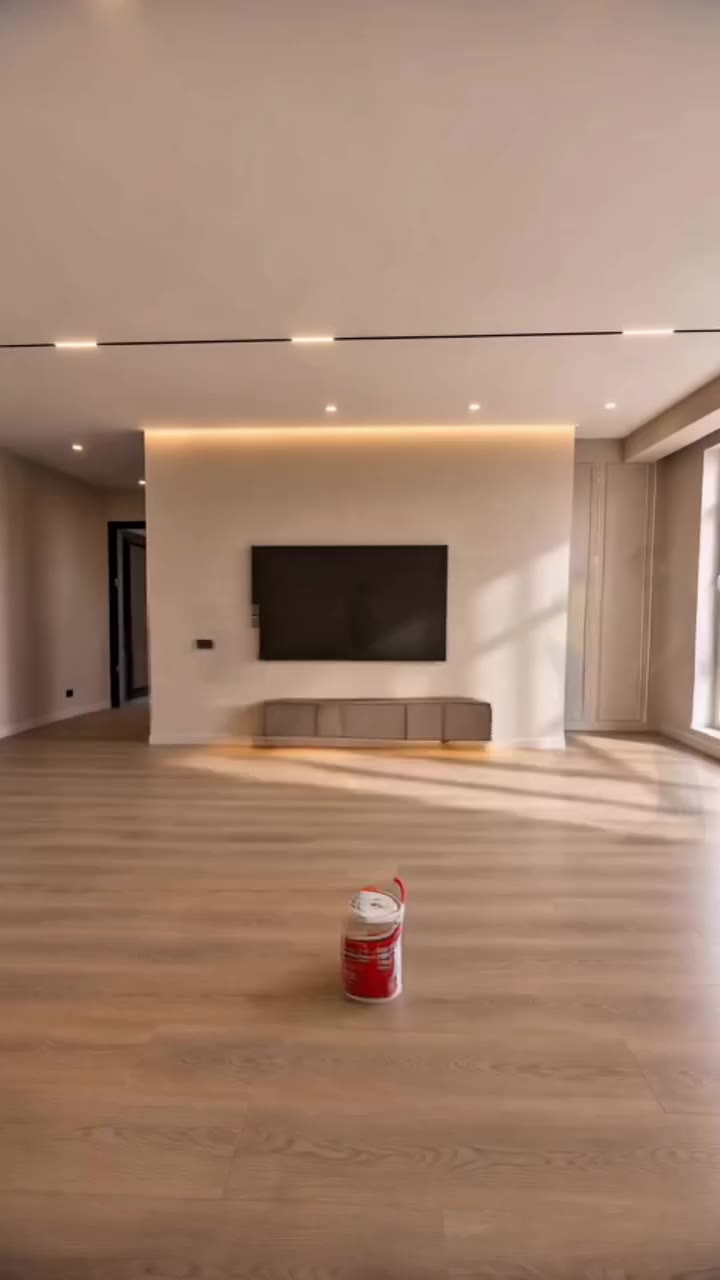
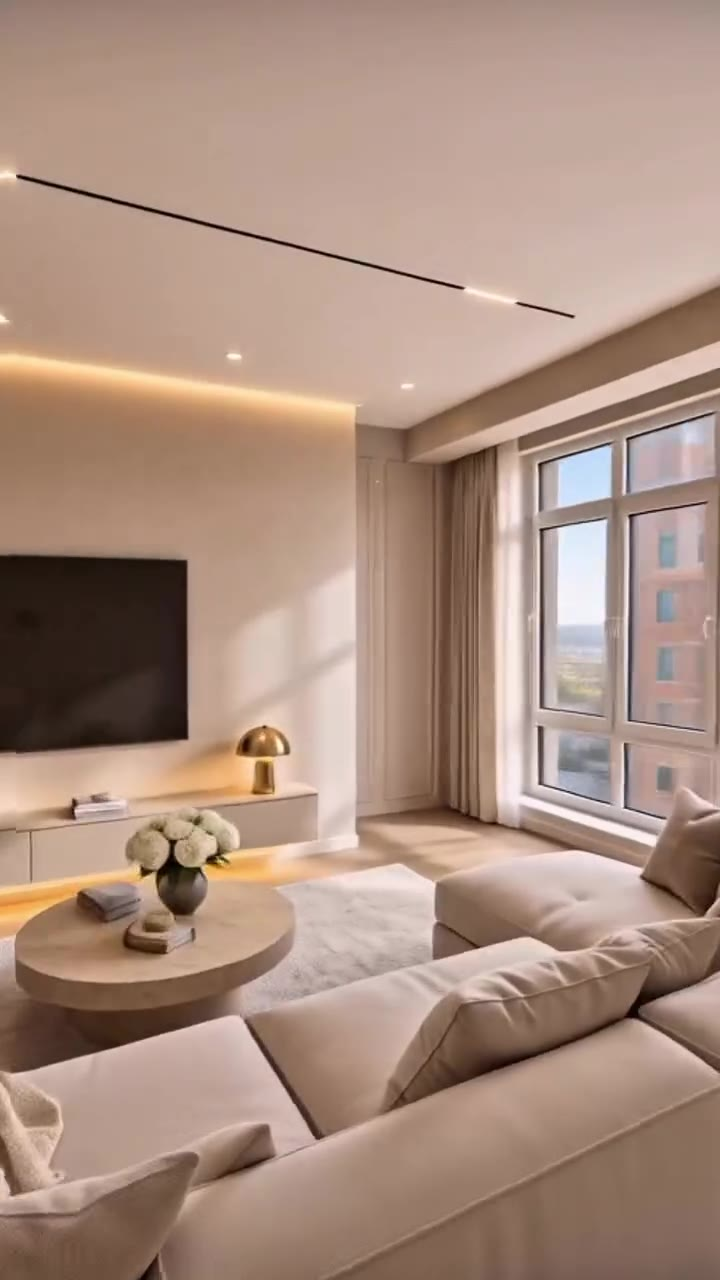
ЖК Легенда: навигация, чипы и кнопки на первом экране, галерея с просмотром, новая обложка видео, мобильная вёрстка hero
Claude-Session: https://claude.ai/code/session_019tdYqEuQ2KqC7JcWJotPjW

diff --git a/zhk/legenda.html b/zhk/legenda.html
@@ -20,8 +20,8 @@ a{color:inherit;text-decoration:none}
 .top b{font:400 26px/1 var(--display);letter-spacing:.04em;color:#fff}
 .top a.back{font-size:14px;color:#e5c77e}
 .hero{position:relative;color:#fff;background:var(--navy)}
-.hero img{display:block;width:100%;height:min(82vh,760px);object-fit:cover;object-position:50% 38%}
-.hero:after{content:"";position:absolute;inset:0;background:linear-gradient(0deg,rgba(7,27,49,.9) 0%,rgba(7,27,49,.05) 48%)}
+.hero img{display:block;width:100%;height:min(90vh,840px);object-fit:cover;object-position:50% 30%}
+.hero:after{content:"";position:absolute;inset:0;background:linear-gradient(0deg,rgba(7,27,49,.94) 0%,rgba(7,27,49,.66) 38%,rgba(7,27,49,0) 72%)}
 .hero .wrap{position:absolute;left:0;right:0;bottom:0;z-index:2;padding-bottom:36px;margin:0 auto}
 .hero p{margin:0 0 6px;color:#e5c77e;font-weight:600;font-size:15px}
 h1{margin:0;font:400 clamp(38px,7vw,72px)/1.05 var(--display)}
@@ -125,6 +125,31 @@ footer{padding:26px 0;font-size:13px;color:var(--mut)}
 .find .fbtn:disabled{opacity:.45;cursor:default}
 .find .reset{margin-left:auto;background:transparent;border:0;color:#e5c77e;text-decoration:underline;font:600 14px var(--text);cursor:pointer}
 .find .fhead{display:flex;gap:12px;align-items:flex-start}
+.anav{display:flex;gap:26px;margin-left:auto;margin-right:28px}
+.anav a{color:#dfe6ee;font-size:14px;font-weight:600}.anav a:hover{color:var(--gold)}
+html{scroll-behavior:smooth}section{scroll-margin-top:12px}
+.hchips{list-style:none;margin:18px 0 0;padding:0;display:flex;flex-wrap:wrap;gap:8px}
+.hchips li{padding:8px 14px;border-radius:999px;background:rgba(255,255,255,.14);border:1px solid rgba(255,255,255,.28);backdrop-filter:blur(6px);font-size:14px;font-weight:600}
+.hbtns{display:flex;flex-wrap:wrap;gap:12px;margin-top:20px}
+.hbtns .btn{background:rgba(255,255,255,.1)}.hbtns .btn.p{background:var(--gold)}
+.gal{display:grid;grid-template-columns:repeat(4,1fr);gap:12px}
+.gal button{position:relative;padding:0;border:0;border-radius:14px;overflow:hidden;aspect-ratio:3/4;background:#dde3ea;cursor:zoom-in}
+.gal img{width:100%;height:100%;object-fit:cover;display:block;transition:transform .5s}
+.gal button:hover img{transform:scale(1.04)}
+.gal span{position:absolute;left:0;right:0;bottom:0;padding:34px 14px 12px;color:#fff;font-weight:600;font-size:14px;text-align:left;background:linear-gradient(0deg,rgba(7,27,49,.78),transparent)}
+.lb{position:fixed;inset:0;z-index:50;background:rgba(5,14,26,.94);display:none;align-items:center;justify-content:center;padding:20px}
+.lb.on{display:flex}.lb img{max-width:100%;max-height:88vh;border-radius:10px}
+.lb button{position:absolute;border:0;background:rgba(255,255,255,.14);color:#fff;width:46px;height:46px;border-radius:50%;font-size:22px;cursor:pointer}
+.lb .x{top:16px;right:16px}.lb .pv{left:16px;top:50%}.lb .nx{right:16px;top:50%}
+@media(max-width:760px){.hero:after{display:none}
+ .hero img{height:300px!important;object-position:50% 30%!important}
+ .hero .wrap{position:static;padding-top:22px;padding-bottom:30px}
+ .hero{background:var(--navy)}
+ .hero h1{font-size:44px}
+ .anav{display:none}.top .back{margin-left:auto}
+ .gal{display:flex;overflow-x:auto;scroll-snap-type:x mandatory;gap:10px;margin:0 -16px;padding:0 16px 6px}
+ .gal button{flex:0 0 78%;scroll-snap-align:center;aspect-ratio:4/5}
+ .hchips li{font-size:13px;padding:7px 12px}}
 @media(max-width:760px){
 .fp{padding:14px}.legend .orig{margin-left:0}
 #fp{display:grid;grid-template-columns:minmax(0,1fr) 30px minmax(0,1fr);gap:6px;height:640px}
@@ -154,7 +179,7 @@ footer{padding:26px 0;font-size:13px;color:var(--mut)}
 </style>
 </head>
 <body>
-<header class="top"><div class="wrap"><a href="/"><b>CITY</b></a><a class="back" href="/">Все объекты</a></div></header>
+<header class="top"><div class="wrap"><a href="/"><b>CITY</b></a><nav class="anav"><a href="#gallery">О комплексе</a><a href="#apartment">Квартира</a><a href="#chess">Выбор квартиры</a><a href="#calc">Рассрочка</a></nav><a class="back" href="/">Все объекты</a></div></header>
 
 <div class="hero">
   <img src="/zhk/legenda/hero.jpg" alt="ЖК «Легенда», вид сверху">
@@ -162,24 +187,26 @@ footer{padding:26px 0;font-size:13px;color:var(--mut)}
     <p>Застройщик Shadid Group</p>
     <h1>ЖК «Легенда»</h1>
     <div class="sub">Монолитно-кирпичные дома с панорамными окнами, магазинами на первых этажах и благоустроенными дворами.</div>
+    <ul class="hchips"><li>5 блоков</li><li>Квартиры от 47,75 до 85,18 м²</li><li>Рассрочка до 36 месяцев</li></ul>
+    <div class="hbtns"><a class="btn p" href="#chess">Выбрать квартиру</a><a class="btn" href="#apartment">Смотреть видео</a></div>
   </div>
 </div>
 
-<section>
+<section id="gallery">
   <div class="wrap">
     <h2>Как выглядит комплекс</h2>
     <p class="lead">Фасад из тёмного и красного кирпича, остеклённые эркеры, пешеходные улицы и благоустроенные дворы.</p>
-    <div class="grid">
-      <figure><img src="/zhk/legenda/street.jpg" alt="Пешеходная улица и коммерческие помещения" loading="lazy"></figure>
-      <figure><img src="/zhk/legenda/entrance.jpg" alt="Входная группа торгового комплекса" loading="lazy"></figure>
-      <figure><img src="/zhk/legenda/yard.jpg" alt="Двор комплекса на закате" loading="lazy"></figure>
-      <figure><img src="/zhk/legenda/sunset.jpg" alt="Дома комплекса на закате" loading="lazy"></figure>
+    <div class="gal" id="gal">
+      <button type="button" data-i="0"><img src="/zhk/legenda/street.jpg" alt="Пешеходная улица и коммерческие помещения" loading="lazy"><span>Пешеходная улица</span></button>
+      <button type="button" data-i="1"><img src="/zhk/legenda/entrance.jpg" alt="Входная группа торгового комплекса" loading="lazy"><span>Входная группа</span></button>
+      <button type="button" data-i="2"><img src="/zhk/legenda/yard.jpg" alt="Двор комплекса на закате" loading="lazy"><span>Двор</span></button>
+      <button type="button" data-i="3"><img src="/zhk/legenda/sunset.jpg" alt="Дома комплекса на закате" loading="lazy"><span>Закат над комплексом</span></button>
     </div>
     <p class="note">Изображения — визуализации, внешний вид может отличаться от построенного.</p>
   </div>
 </section>
 
-<section style="background:var(--paper)">
+<section id="apartment" style="background:var(--paper)">
   <div class="wrap">
     <div class="demo">
       <div class="video">
@@ -250,6 +277,17 @@ footer{padding:26px 0;font-size:13px;color:var(--mut)}
 </section>
 
 <footer><div class="wrap">CITY — агентство недвижимости в Буйнакске. Демонстрационная страница.</div></footer>
+<div class="lb" id="lb" role="dialog" aria-label="Просмотр фото"><button class="x" aria-label="Закрыть">×</button><button class="pv" aria-label="Назад">‹</button><img alt=""><button class="nx" aria-label="Вперёд">›</button></div>
+<script>
+(function(){var b=[].slice.call(document.querySelectorAll("#gal button")),lb=document.getElementById("lb"),im=lb.querySelector("img"),i=0;
+function show(n){i=(n+b.length)%b.length;im.src=b[i].querySelector("img").src;im.alt=b[i].querySelector("img").alt;lb.classList.add("on")}
+b.forEach(function(x,n){x.onclick=function(){show(n)}});
+lb.querySelector(".x").onclick=function(){lb.classList.remove("on")};
+lb.querySelector(".pv").onclick=function(e){e.stopPropagation();show(i-1)};
+lb.querySelector(".nx").onclick=function(e){e.stopPropagation();show(i+1)};
+lb.onclick=function(e){if(e.target===lb)lb.classList.remove("on")};
+document.addEventListener("keydown",function(e){if(!lb.classList.contains("on"))return;if(e.key==="Escape")lb.classList.remove("on");if(e.key==="ArrowLeft")show(i-1);if(e.key==="ArrowRight")show(i+1)});})();
+</script>
 <script>
 (function(){
 var PHONE="79094833939",ST={free:"Свободна",booked:"Забронирована",sold:"Продана"};
